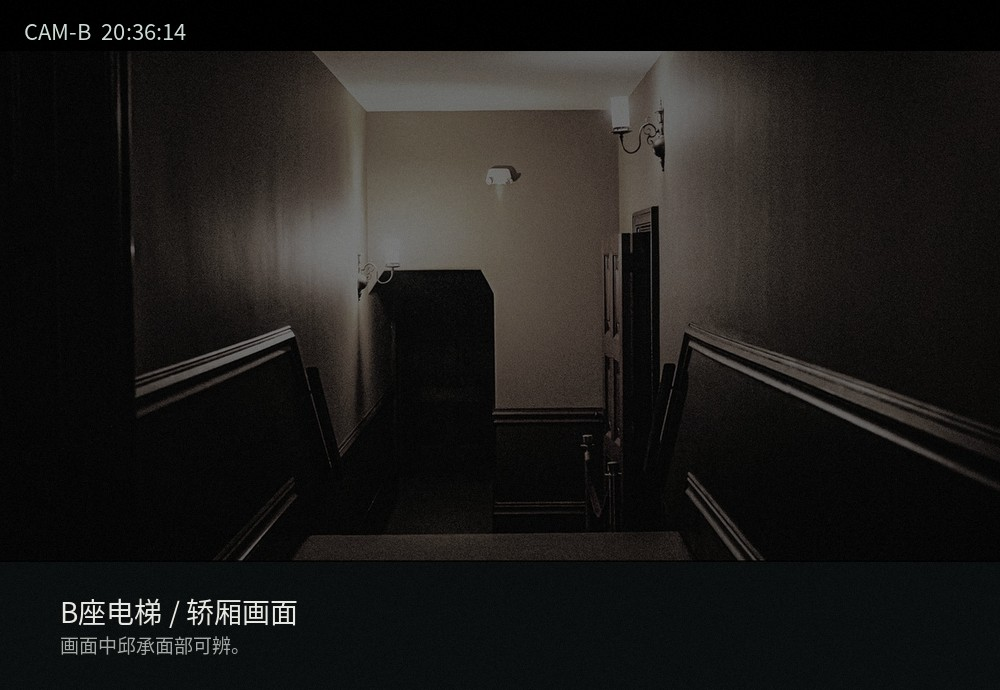
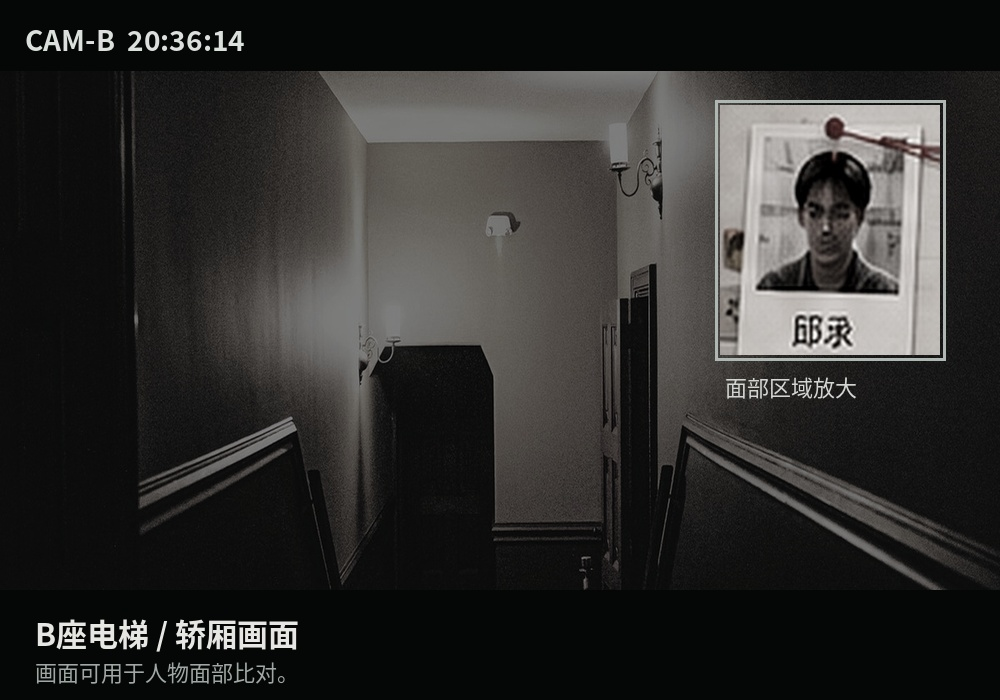
5

diff --git a/app.js b/app.js
@@ -5,8 +5,8 @@ const SAVE='second_confession_film_v4',META='second_confession_film_meta_v4';
 const $=s=>document.querySelector(s),$$=s=>[...document.querySelectorAll(s)];
 const esc=s=>String(s??'').replace(/[&<>"']/g,m=>({'&':'&amp;','<':'&lt;','>':'&gt;','"':'&quot;',"'":'&#39;'}[m]));
 const defaults=()=>({
-  stage:0,location:'hall',asked:[],scene:[],viewed:[],facts:[],hintLevel:{},sound:true,
-  transferSubmitted:false,drawerResolved:false,tags:{},lastSeenSolved:false,arrivalSeen:false,arrivalConfronted:false,
+  stage:0,location:'hall',asked:[],scene:[],viewed:[],facts:[],hintLevel:{},sound:true,expert:false,recordOrder:[],
+  transferSubmitted:false,drawerMismatch:false,drawerReasked:false,drawerResolved:false,tags:{},lastSeenSolved:false,arrivalSeen:false,arrivalConfronted:false,
   bookstoreSeen:[],sequenceSolved:false,propertySolved:false,voiceSeen:false,forensicSeen:[],forensicSolved:false,
   secondAsked:false,final:{initial:{person:null,evidence:[]},rescue:{person:null,evidence:[]},cover:{person:null,evidence:[]},confess:{person:null,evidence:[]},model:null},
   ending:false,filmSeen:[]
@@ -58,8 +58,9 @@ function showFilm(key,done){
 function renderShot(){
   clearTimeout(film.timer);
   const s=film.shots[film.i];
-  const img=$('#filmImg');img.style.animation='none';void img.offsetWidth;img.style.animation='';
-  img.src=s.img.startsWith('ev_')?'assets/images/'+s.img:'assets/images/'+s.img;
+  const theatre=$('#theatre');theatre.classList.remove('shot-enter');void theatre.offsetWidth;theatre.classList.add('shot-enter');
+  const img=$('#filmImg');img.className='motion-'+(s.motion||(['push','still','pan-left','pan-right'][film.i%4]));img.style.animation='none';void img.offsetWidth;img.style.animation='';
+  img.src='assets/images/'+s.img;
   $('#filmHud').textContent=s.hud||'';
   $('#filmCaption').textContent=s.caption||'';
   $('#filmSpeaker').textContent=s.speaker||'';
@@ -67,7 +68,7 @@ function renderShot(){
   const st=$('#filmStamp');st.textContent=s.stamp||'';st.classList.toggle('hidden',!s.stamp);
   if(s.ambient)ambient(s.ambient);
   if(s.sfx)playFx(s.sfx);
-  film.timer=setTimeout(()=>advanceFilm(),Math.max(1800,(s.hold||900)+900));
+  film.timer=setTimeout(()=>advanceFilm(),Math.max(2400,(s.hold||900)+1200));
 }
 function advanceFilm(){
   clearTimeout(film.timer);
@@ -89,8 +90,9 @@ function enter(newGame=false){
 $$('[data-action="new"]').forEach(b=>b.onclick=()=>enter(true));
 $('#continueBtn').disabled=!localStorage.getItem(SAVE);
 $('#continueBtn').onclick=()=>enter(false);
-if(meta.completed)$('#truthReplayBoot').classList.remove('hidden');
+if(meta.completed){$('#truthReplayBoot').classList.remove('hidden');$('#independentBoot')?.classList.remove('hidden')}
 $('#truthReplayBoot').onclick=()=>{state=defaults();$('#boot').classList.add('hidden');$('#app').classList.remove('hidden');showFilm('replayTruth',()=>{$('#app').classList.add('hidden');$('#boot').classList.remove('hidden')})};
+$('#independentBoot')?.addEventListener('click',()=>{reset();state.expert=true;state.recordOrder=[...recordIds].sort(()=>Math.random()-.5);save();$('#boot').classList.add('hidden');$('#app').classList.remove('hidden');showFilm('intake',()=>{state.location='hall';save();render()})});
 
 /* ===== diegetic hall ===== */
 const locationInfo={
@@ -109,7 +111,7 @@ function proceduralItems(){
     ['检查4-702书桌与倒地位置',state.scene.includes('desk')&&state.scene.includes('floor')],
     ['核对E01与E02原始材料',state.viewed.includes('confession')&&state.viewed.includes('brass')]
   ];
-  if(state.stage===1)return [['补核物证采集位置',state.drawerResolved]];
+  if(state.stage===1)return [['补核物证采集位置',state.drawerMismatch],['回讯问室复听并再次确认',state.drawerReasked],['决定是否暂缓移送',state.drawerResolved]];
   if(state.stage===2)return [['复核20:36—21:52记录来源',state.lastSeenSolved]];
   if(state.stage===3)return [['核对陈默到场时间并补充讯问',state.arrivalConfronted]];
   if(state.stage===4)return [['核对迟夏书店时间记录',state.sequenceSolved]];
@@ -132,12 +134,13 @@ function renderHall(){
     <img class="scene-bg" src="assets/images/film_corridor_wide.jpg" alt="">
     <div class="scene-shade"></div>
     <div class="scene-copy">
-      <div class="kicker">${state.stage<2?'TRANSFER CHECK':'SUPPLEMENTAL REVIEW'} / CASE 17</div>
+      <div class="kicker">${state.expert?'INDEPENDENT REVIEW':(state.stage<2?'TRANSFER CHECK':'SUPPLEMENTAL REVIEW')} / CASE 17</div>
       <h1>${state.stage<2?'案件移送核验':'第17号案件 · 补充复核'}</h1>
       <p>${state.stage<2?'先完成程序性核验。系统不会替你判断口供是否可信。':'从原始材料重新建立案件，不沿用原案对记录的解释。'}</p>
       <div class="location-grid">${cards}</div>
-      ${items.length?`<div class="procedure-slip"><b>程序清单</b><ul>${items.map(x=>`<li class="${x[1]?'done':''}">${x[0]}</li>`).join('')}</ul>
+      ${items.length&&!state.expert?`<div class="procedure-slip"><b>程序清单</b><ul>${items.map(x=>`<li class="${x[1]?'done':''}">${x[0]}</li>`).join('')}</ul>
       ${state.stage===0&&items.every(x=>x[1])&&!state.transferSubmitted?'<button id="submitTransfer" class="primary">提交移送核验</button>':''}</div>`:''}
+      ${state.expert&&state.stage===0&&items.every(x=>x[1])&&!state.transferSubmitted?'<div class="expert-submit"><button id="submitTransfer" class="primary">提交移送核验</button></div>':''}
     </div>
   </section>`;
   $$('[data-loc]').forEach(b=>b.onclick=()=>go(b.dataset.loc));
@@ -162,6 +165,7 @@ function availableQuestions(){
     {id:'weapon',q:'凶器是什么？',a:'桌边那只黄铜书挡。我拿起来砸了他。',beh:'说到“黄铜书挡”时视线没有移开。'}
   ];
   if(state.stage>=1)base.push({id:'drawer',q:'后来怎么处理凶器？',a:'擦了一下，放回书桌第二层抽屉。',beh:'“第二层”回答很快。'});
+  if(state.drawerMismatch)base.push({id:'drawer_recheck',q:'书挡到底放在哪一层？',a:'第二层。左边第二层，我记得很清楚。',beh:'重复询问后仍保持同一回答。'});
   if(state.stage>=3)base.push({id:'arrival',q:'你几点到、几点离开？',a:'21点45分左右到，21点58分左右离开。',beh:'时间表达完整，没有反复修正。'});
   if(state.stage>=7)base.push({id:'second',q:'20:50林夏已经知道邱承倒下。你那时在哪里？',a:'……我到的时候，他已经倒在那里。',beh:'这句话与第一次供述出现直接冲突。'});
   return base;
@@ -170,13 +174,15 @@ function renderInterrogation(){
   ambient('interrogation');
   const qs=availableQuestions();
   const cur=qs.find(q=>q.id===(state.currentQ||''))||qs[0];state.currentQ=cur.id;
+  const qImage=['drawer_recheck','arrival','second'].includes(cur.id)?'film_interrogation_left.jpg':'film_interrogation_wide.jpg';
   $('#view').innerHTML=`<section class="interrogation-room">
-    <img class="scene-bg" src="assets/images/film_interrogation_wide.jpg" alt="讯问室环境">
+    <img class="scene-bg" src="assets/images/${qImage}" alt="讯问室环境">
     <div class="scene-shade"></div><div class="cam-time"><span class="rec">● REC</span>ROOM 03 / 21:14:${String(8+state.asked.length*7).padStart(2,'0')}</div>
     <div class="interrogation-console">
       <h2>第一次讯问录像</h2><div class="mono">原案材料 / 未附行为结论</div>
       <div class="question-list">${qs.map(q=>`<button class="${state.asked.includes(q.id)?'asked':''}" data-q="${q.id}">${q.q}</button>`).join('')}</div>
       <div class="transcript"><div class="q">韩川：${esc(cur.q)}</div><div class="a">陈默：${esc(cur.a)}</div><div class="behaviour">观察记录：${esc(cur.beh)}</div></div>
+      ${state.stage===1&&state.drawerMismatch&&state.drawerReasked&&!state.drawerResolved?'<div class="confront-row"><button id="pauseTransfer" class="primary">将两份原始记录并列，申请暂缓移送</button></div>':''}
       ${state.stage>=3&&state.arrivalSeen&&state.asked.includes('arrival')&&!state.arrivalConfronted?'<div class="confront-row"><button id="arrivalConfront" class="primary">把E15到场记录放到桌上</button></div>':''}
       ${state.stage>=7&&state.asked.includes('second')&&!state.secondAsked?'<div class="confront-row"><button id="secondConfront" class="primary">把时间材料放到桌上</button></div>':''}
     </div>
@@ -184,8 +190,13 @@ function renderInterrogation(){
   $$('[data-q]').forEach(b=>b.onclick=()=>{
     state.currentQ=b.dataset.q;
     if(!state.asked.includes(b.dataset.q))state.asked.push(b.dataset.q);
-    if(['why','weapon','drawer'].includes(b.dataset.q))markViewed('confession');
+    if(['why','weapon','drawer','drawer_recheck'].includes(b.dataset.q))markViewed('confession');
+    if(b.dataset.q==='drawer_recheck')state.drawerReasked=true;
     save();playFx('rec');renderInterrogation();
+  });
+  $('#pauseTransfer')?.addEventListener('click',()=>{
+    state.drawerResolved=true;setStage(2);addFact('第一次供述与现场采集位置对同一物证的层数记录不一致。');save();
+    showFilm('drawerBreak');
   });
   $('#arrivalConfront')?.addEventListener('click',()=>{
     state.arrivalConfronted=true;setStage(4);addFact('陈默到场记录显示其21:29进入B座。');save();
@@ -199,20 +210,19 @@ function renderInterrogation(){
 
 /* ===== scene ===== */
 const hotspots=[
-  {id:'desk',label:'书桌',x:47,y:48,w:23,h:20,ev:'brass',text:'书桌右侧区域提取黄铜书挡。'},
-  {id:'floor',label:'倒地位置',x:28,y:55,w:26,h:25,text:'倒地位置与第一次供述描述基本对应。'},
-  {id:'phone',label:'桌边设备',x:39,y:57,w:14,h:13,ev:'phone',stage:2,text:'邱承手机在桌边提取。'},
-  {id:'door',label:'入户门',x:76,y:28,w:18,h:40,ev:'access',stage:2,text:'入户门未见强行破坏痕迹。'},
-  {id:'drawer',label:'抽屉',x:57,y:52,w:18,h:18,ev:'drawer',stage:1,text:'物证采集位置补录。'}
-];
+  {id:'desk',label:'书桌与抽屉柜',x:56,y:19,w:39,h:48,ev:'brass',text:'书桌与抽屉柜在原现场照片中清晰可见。'},
+  {id:'floor',label:'倒地位置',x:10,y:42,w:55,h:53,text:'倒地位置位于书桌前方地面，现场编号牌与第一次供述描述可以核对。'},
+  {id:'phone',label:'桌边手机',x:61,y:13,w:18,h:16,ev:'phone',stage:2,text:'邱承手机在书桌区域提取。'},
+  {id:'drawer',label:'左侧抽屉柜',x:70,y:24,w:23,h:46,ev:'drawer',stage:1,text:'物证采集位置补录。'}
+]
 function renderScene(){
   ambient('rain');
   $('#view').innerHTML=`<section class="scene-screen">
     <img class="scene-bg" src="assets/images/film_apartment_wide.jpg" alt="4-702现场">
     <div class="scene-shade"></div>
     ${hotspots.filter(h=>(h.stage||0)<=state.stage).map(h=>`<button class="hotspot" data-hot="${h.id}" data-label="${h.label}" style="left:${h.x}%;top:${h.y}%;width:${h.w}%;height:${h.h}%"></button>`).join('')}
-    <div class="scene-tip">移动鼠标检查现场 · 无关键点高亮</div>
-    <div class="field-panel"><h3>4-702 · 原现场重建</h3><p>${state.stage<1?'按移送程序核对供述中出现的物品与位置。':'打开原始定位材料时，只记录你真正看到的内容。'}</p><small class="mono">CHECKED ${state.scene.length} / ${hotspots.filter(h=>(h.stage||0)<=state.stage).length}</small></div>
+    <div class="scene-tip">移动鼠标检查现场 · 编号牌是原勘验标记，热点不会发光</div>
+    <div class="field-panel"><h3>4-702 · 原现场勘验照片</h3><p>${state.stage<1?'按移送程序核对供述中出现的物品与现场编号。':'打开原始定位材料时，只记录你真正看到的内容。'}</p><small class="mono">CHECKED ${state.scene.length} / ${hotspots.filter(h=>(h.stage||0)<=state.stage).length}</small></div>
   </section>`;
   $$('[data-hot]').forEach(b=>b.onclick=()=>inspectHotspot(b.dataset.hot));
 }
@@ -234,8 +244,8 @@ function drawerCompare(){
     <div class="compare-actions"><button data-drawer="same">一致</button><button data-drawer="diff">不一致</button><button data-drawer="unknown">无法判断</button></div>`);
   $$('[data-drawer]').forEach(b=>b.onclick=()=>{
     if(b.dataset.drawer==='diff'){
-      closeModal(false);state.drawerResolved=true;setStage(2);addFact('第一次供述写“第二层”，现场采集记录写“第一层”。');save();
-      showFilm('drawerBreak');
+      closeModal(false);state.drawerMismatch=true;addFact('两份原始材料对同一物证的层数记录不同。');save();
+      toast('差异已登记。回讯问室复听陈默关于抽屉位置的原话。');render();
     }else toast('再读一次两份原始材料。');
   });
 }
@@ -263,12 +273,13 @@ function openEvidence(id){
 
 /* ===== video room / record classification ===== */
 const recordIds=['cctv','payment','access','water','parcel','taxi'];
-const tagLabels={person:'直接确认本人',carrier:'确认凭证/账户/设备',environment:'确认环境行为',unknown:'无法确认'};
+function currentRecordIds(){return state.expert&&state.recordOrder?.length?state.recordOrder:recordIds}
+const tagLabels={person:'画面确认到人',carrier:'只记录卡/账户/设备',environment:'只记录环境变化',unknown:'目前无法判断'};
 function renderVideo(){
   ambient('records');
-  const allCorrect=recordIds.every(id=>state.tags[id]===D.recordTags[id]);
+  const ids=currentRecordIds();const allCorrect=recordIds.every(id=>state.tags[id]===D.recordTags[id]);
   $('#view').innerHTML=`<section class="video-room"><div class="room-head"><div><h1>视频与系统记录复核</h1><p>20:36—21:52 / SOURCE CLASSIFICATION</p></div><span class="mono">先标注“记录直接确认了什么”</span></div>
-  <div class="monitor-wall">${recordIds.map(id=>{const e=ev(id);return `<div class="monitor"><div class="monitor-id">${e.no}</div><img src="assets/images/${e.img}" alt="${esc(e.name)}"><p>${esc(e.raw)}</p>
+  <div class="monitor-wall">${ids.map(id=>{const e=ev(id);return `<div class="monitor"><div class="monitor-id">${e.no}</div><img src="assets/images/${e.img}" alt="${esc(e.name)}"><p>${esc(e.raw)}</p>
     <button data-open-record="${id}">打开原件</button>
     <div class="tag-row">${Object.entries(tagLabels).map(([k,l])=>`<button data-tag="${id}:${k}" class="${state.tags[id]===k?'active':''}" ${state.viewed.includes(id)?'':'disabled'}>${l}</button>`).join('')}</div></div>`}).join('')}</div>
   ${allCorrect&&!state.lastSeenSolved?`<div class="video-question"><h3>在这些材料中，最后一条能直接确认邱承本人出现的是：</h3>
@@ -332,7 +343,7 @@ function renderProperty(){
 /* ===== forensic ===== */
 function renderForensic(){
   ambient('records');
-  $('#view').innerHTML=`<section class="diegetic-screen"><img class="scene-bg" src="assets/images/film_records_wide.jpg" alt="法医复核室"><div class="scene-shade"></div>
+  $('#view').innerHTML=`<section class="diegetic-screen"><img class="scene-bg" src="assets/images/film_forensic_v5.jpg" alt="法医复核室"><div class="scene-shade"></div>
   <div class="prop-stack"><div class="mono">FORENSIC REVIEW / CASE 17</div><h1>死亡过程复核</h1>
   <div class="medical-file"><button data-forensic="autopsy">查看E17法医底稿</button>${state.forensicSeen.includes('autopsy')?'<img src="assets/images/ev_autopsy.jpg">':''}</div>
   <div class="medical-file"><button data-forensic="call">查看E12急救缓存</button>${state.forensicSeen.includes('call')?'<img src="assets/images/ev_call.jpg">':''}</div>
@@ -354,10 +365,10 @@ function renderForensic(){
 
 /* ===== final review ===== */
 const responsibilityDefs={
-  initial:{title:'最初伤害',people:[['lin','林夏'],['chen','陈默'],['zhao','赵序']],expectedPerson:'lin',evidence:['cctv','brass','message'],expectedEvidence:['cctv','brass']},
-  rescue:{title:'救助中断',people:[['linzhao','林夏 / 赵序'],['chen','陈默'],['han','韩川']],expectedPerson:'linzhao',evidence:['message','call','autopsy','arrival'],expectedEvidence:['call','autopsy']},
-  cover:{title:'事后时间线设计',people:[['zhao','赵序'],['chen','陈默'],['han','韩川']],expectedPerson:'zhao',evidence:['zhaolog','access','water','payment'],expectedEvidence:['zhaolog','access']},
-  confess:{title:'虚假自首',people:[['chen','陈默'],['lin','林夏'],['zhao','赵序']],expectedPerson:'chen',evidence:['confession','arrival','drawer','message'],expectedEvidence:['confession','arrival']}
+  initial:{title:'最初伤害',people:[['lin','林夏'],['chen','陈默'],['zhao','赵序']],expectedPerson:'lin',evidence:['cctv','brass','message'],validEvidence:[['cctv','brass'],['message','brass']]},
+  rescue:{title:'救助中断',people:[['linzhao','林夏 / 赵序'],['chen','陈默'],['han','韩川']],expectedPerson:'linzhao',evidence:['message','call','autopsy','arrival'],validEvidence:[['call','autopsy'],['message','autopsy']]},
+  cover:{title:'事后时间线设计',people:[['zhao','赵序'],['chen','陈默'],['han','韩川']],expectedPerson:'zhao',evidence:['zhaolog','access','water','payment','parcel','taxi'],validEvidence:[['zhaolog','access'],['zhaolog','payment'],['zhaolog','water'],['zhaolog','parcel'],['zhaolog','taxi']]},
+  confess:{title:'虚假自首',people:[['chen','陈默'],['lin','林夏'],['zhao','赵序']],expectedPerson:'chen',evidence:['confession','arrival','drawer','message'],validEvidence:[['confession','arrival'],['confession','drawer']]}
 };
 function renderReview(){
   ambient('records');
@@ -366,7 +377,7 @@ function renderReview(){
     return `<div class="responsibility-card"><h3>${d.title}</h3><div class="mono">主要行为人</div><div class="person-stamps">${d.people.map(([v,l])=>`<button data-person-pick="${id}:${v}" class="${s.person===v?'active':''}">${l}</button>`).join('')}</div>
       <div class="mono" style="margin-top:14px">挂接两份关键材料</div><div class="evidence-picks">${d.evidence.map(eid=>`<button data-ev-pick="${id}:${eid}" class="${s.evidence.includes(eid)?'active':''}">${ev(eid).no} ${ev(eid).name}</button>`).join('')}</div></div>`;
   }).join('');
-  $('#view').innerHTML=`<section class="review-room"><div class="review-table"><div class="mono">CASE REVIEW MEETING / FINAL</div><h1>案件复核会议</h1><p>不要寻找一个能覆盖全部过程的人。把四段行为分别固定。</p>
+  $('#view').innerHTML=`<section class="review-room"><div class="review-hero"><img src="assets/images/film_review_meeting.jpg" alt="案件复核会议"><div><div class="mono">CASE REVIEW MEETING / FINAL</div><h1>案件复核会议</h1><p>把已经确认的事实重新放回同一张桌面。终局只接受能够解释全部记录的责任链。</p></div></div><div class="review-table">
   <div class="responsibility-grid">${cards}</div>
   <div class="review-submit"><h3>案件模型</h3><div class="model-options">
     <button data-model="single" class="${state.final.model==='single'?'active':''}">陈默单独故意杀人</button>
@@ -382,7 +393,7 @@ function submitFinal(){
   let ok=true;
   for(const [id,d] of Object.entries(responsibilityDefs)){
     const s=state.final[id];if(s.person!==d.expectedPerson)ok=false;
-    if(!d.expectedEvidence.every(x=>s.evidence.includes(x)))ok=false;
+    if(!d.validEvidence.some(set=>set.every(x=>s.evidence.includes(x))))ok=false;
   }
   if(state.final.model!=='layered')ok=false;
   if(!ok){toast('复核意见仍有一段行为无法被当前材料解释。');return}
@@ -401,7 +412,7 @@ function renderEnding(){
     <div class="outcome"><b>赵序</b><small>事后掩饰行为复核</small><p>没有篡改数据库，但其利用多系统记录形成错误身份时间线的行为被固定。</p></div>
     <div class="outcome"><b>韩川</b><small>原案质量复盘</small><p>真实记录被错误地写成了“本人持续活动”。</p></div>
   </div>
-  <div class="ending-actions"><button id="truthReplay" class="primary">重看第一份口供 · 真相标注</button><button id="restart">重新开始案件</button></div></div></section>`;
+  <p class="replay-note">${state.expert?'独立复核完成：本轮未显示程序清单与提示，电子记录顺序也经过打乱。':'通关后可从首页进入“独立复核二周目”，在无程序清单、无提示且记录顺序打乱的条件下重新证明案件。'}</p><div class="ending-actions"><button id="truthReplay" class="primary">重看第一份口供 · 真相标注</button><button id="restart">重新开始案件</button></div></div></section>`;
   $('#truthReplay').onclick=()=>showFilm('replayTruth');
   $('#restart').onclick=()=>{reset();location.reload()};
 }
@@ -417,7 +428,7 @@ function renderFolder(tab){
   }else if(tab==='facts'){
     body.innerHTML=state.facts.map(x=>`<div class="folder-fact">${esc(x)}</div>`).join('')||'<p>这里只记录你已经亲手确认的事实。</p>';
   }else{
-    body.innerHTML=`<div class="people-file">${Object.values(D.people).map(p=>`<div class="person-file"><b>${p.name}</b><small>${p.role}</small><p>${p.public}</p>${state.stage>=8?`<p>${p.later}</p>`:''}</div>`).join('')}</div>`;
+    body.innerHTML=`<div class="people-file">${Object.values(D.people).map(p=>`<div class="person-file"><img class="person-portrait" src="assets/images/${p.portrait}" alt="${p.name}"><div class="person-copy"><b>${p.name}</b><small>${p.role}</small><p>${p.public}</p><p class="relation">${p.relation}</p>${p.mid&&state.stage>=p.midStage?`<p class="mid-note">${p.mid}</p>`:''}${state.stage>=8?`<p class="later-note">${p.later}</p>`:''}</div></div>`).join('')}</div>`;
   }
 }
 $$('[data-folder-tab]').forEach(b=>b.onclick=()=>renderFolder(b.dataset.folderTab));
@@ -445,8 +456,9 @@ function tools(){
 function render(){
   if(state.ending){renderEnding();return}
   $('#hudLocation').textContent=state.location==='hall'?(state.stage<2?'案卷室':'补充复核走廊'):(locationInfo[state.location]?.[0]||'第17号案件');
-  $('#hudStatus').textContent=state.stage<2?'TRANSFER CHECK':'SUPPLEMENTAL REVIEW';
+  $('#hudStatus').textContent=state.expert?'INDEPENDENT REVIEW':(state.stage<2?'TRANSFER CHECK':'SUPPLEMENTAL REVIEW');
   $('.back-location').style.visibility=state.location==='hall'?'hidden':'visible';
+  document.querySelector('[data-action="hint"]').style.display=state.expert?'none':'';
   if(state.location==='hall')renderHall();
   else if(state.location==='interrogation')renderInterrogation();
   else if(state.location==='scene')renderScene();
@@ -473,6 +485,13 @@ document.addEventListener('click',e=>{
   else if(act==='tools')tools();
   else if(act==='close-modal')closeModal();
 });
-document.addEventListener('keydown',e=>{if(e.key==='Escape'){closeModal();$('#folder').classList.add('hidden');$('#hintPanel').classList.add('hidden')}});
+document.addEventListener('keydown',e=>{
+  if(!$('#theatre').classList.contains('hidden')&&(e.key===' '||e.key==='Enter')){e.preventDefault();advanceFilm();return}
+  if(e.key==='Escape'){closeModal();$('#folder').classList.add('hidden');$('#hintPanel').classList.add('hidden');return}
+  if($('#app').classList.contains('hidden'))return;
+  if(e.key.toLowerCase()==='f'){openFolder();return}
+  if(e.key.toLowerCase()==='h'&&!state.expert){openHint();return}
+  if(e.key.toLowerCase()==='m'){toggleSound();return}
+});
 
 })();

diff --git a/data.js b/data.js
@@ -6,14 +6,14 @@ window.CASE17 = {
     date:"2026-05-18"
   },
   people:{
-    chen:{name:"陈默",role:"主动投案者 / 林夏弟弟",public:"28岁，网约车司机。案发后三天主动到案。",relation:"林夏的弟弟。少年时期由姐姐照顾长大。",later:"他并没有亲历最初冲突，但后来确实进入4-702，并主动承担了整起案件。"},
-    lin:{name:"林夏",role:"迟夏书店经营者",public:"34岁。与死者邱承存在担保债务纠纷。",relation:"陈默姐姐，与赵序相识多年。",later:"她在最初冲突中造成伤害；之后曾尝试拨打120，却没有完成求助。"},
-    zhao:{name:"赵序",role:"物业设备运维工程师",public:"40岁。负责西河公寓门禁、水表等设备维护。",relation:"与林家相识十余年。",later:"他没有篡改系统数据，但熟悉各套系统记录的边界，并参与了事后掩饰设计。"},
-    qiu:{name:"邱承",role:"死者 / 民间债务中介",public:"38岁。长期处理私人债务，曾被投诉暴力催收。",relation:"与林夏存在债务纠纷。",later:"其个人品行与死亡过程需要分别评价。"},
-    han:{name:"韩川",role:"原案主办侦查员",public:"45岁。陈默投案后负责原案证据闭环。",relation:"与涉案人员无私人关系。",later:"没有证据证明他伪造材料；原案错误来自对真实记录的过度解释。"},
-    sun:{name:"孙岚",role:"行为分析顾问",public:"36岁。本次补充复核顾问。",relation:"未参与原案侦查。",later:"她坚持只记录可观察行为，不把停顿、平静等表现直接写成谎言。"},
-    feng:{name:"冯越",role:"西河公寓夜班保安",public:"52岁。案发当晚值班。",relation:"与住户无私人关系。",later:"最初笔录因担心离岗抽烟被处罚而压缩了一段目击。"},
-    zhong:{name:"钟嘉",role:"快递员",public:"25岁。案发夜在快递柜附近补柜。",relation:"与核心人物无私人关系。",later:"他只听到柜门开启，从未确认开柜人的脸。"}
+    chen:{name:"陈默",role:"主动投案者 / 林夏弟弟",portrait:"portrait_chen.jpg",public:"28岁，网约车司机。案发后三天主动到案。",relation:"林夏的弟弟。少年时期由姐姐照顾长大。",midStage:3,mid:"补充影像确认：其车辆21:27进入车库，21:29才进入B座。",later:"他并没有亲历最初冲突，但后来确实进入4-702，并主动承担了整起案件。"},
+    lin:{name:"林夏",role:"迟夏书店经营者",portrait:"portrait_lin.jpg",public:"34岁。与死者邱承存在担保债务纠纷。",relation:"陈默姐姐，与赵序相识多年。",midStage:4,mid:"20:50消息缓存显示，她在陈默到场前已经知道邱承倒地且仍有呼吸。",later:"她在最初冲突中造成伤害；之后曾尝试拨打120，却没有完成求助。"},
+    zhao:{name:"赵序",role:"物业设备运维工程师",portrait:"portrait_zhao.jpg",public:"40岁。负责西河公寓门禁、水表等设备维护。",relation:"与林家相识十余年。",midStage:5,mid:"物业审计日志记录其21:06—21:10连续查询门禁与住户卡信息。",later:"他没有篡改系统数据，但熟悉各套系统记录的边界，并参与了事后掩饰设计。"},
+    qiu:{name:"邱承",role:"死者 / 民间债务中介",portrait:"portrait_qiu.jpg",public:"38岁。长期处理私人债务，曾被投诉暴力催收。",relation:"与林夏存在债务纠纷。",midStage:6,mid:"法医补充材料将“最初伤害”与“伤后救助窗口”拆成了两个时间阶段。",later:"其个人品行与死亡过程需要分别评价。"},
+    han:{name:"韩川",role:"原案主办侦查员",portrait:"portrait_han.jpg",public:"45岁。陈默投案后负责原案证据闭环。",relation:"与涉案人员无私人关系。",midStage:2,mid:"补充复核开始后，他同意把原案中的电子记录重新按来源拆开，而不是沿用旧结论。",later:"没有证据证明他伪造材料；原案错误来自对真实记录的过度解释。"},
+    sun:{name:"孙岚",role:"行为分析顾问",portrait:"portrait_sun.jpg",public:"36岁。本次补充复核顾问。",relation:"未参与原案侦查。",midStage:1,mid:"她要求讯问观察只写可见动作与停顿，不把“冷静”“沉默”直接判成谎言。",later:"她坚持只记录可观察行为，不把停顿、平静等表现直接写成谎言。"},
+    feng:{name:"冯越",role:"西河公寓夜班保安",portrait:"scene_corridor.jpg",public:"52岁。案发当晚值班。",relation:"与住户无私人关系。",midStage:3,mid:"补录笔录承认自己20:30前后曾离岗抽烟，因此原笔录中的时间描述并不完整。",later:"最初笔录因担心离岗抽烟被处罚而压缩了一段目击。"},
+    zhong:{name:"钟嘉",role:"快递员",portrait:"scene_bookstore.jpg",public:"25岁。案发夜在快递柜附近补柜。",relation:"与核心人物无私人关系。",midStage:2,mid:"补充说明：21:38只听见柜门开启声，没有看清开柜人的脸。",later:"他只听到柜门开启，从未确认开柜人的脸。"}
   },
   evidence:{
     confession:{no:"E01",name:"第一次讯问录像转写",img:"ev_confession.jpg",kind:"讯问",stage:0,raw:"陈默称21:45左右到4-702，使用桌边黄铜书挡击打邱承；称后来把书挡放回书桌第二层抽屉。"},
@@ -72,7 +72,7 @@ window.CASE17 = {
       {img:"ev_water.jpg",ambient:"records",caption:"21:31:17",hold:550},
       {img:"ev_parcel.jpg",ambient:"records",caption:"21:38:22",hold:550},
       {img:"ev_taxi.jpg",ambient:"records",caption:"21:52:04",hold:750},
-      {img:"film_records_detail.jpg",ambient:"records",speaker:"韩川",line:"把20:36以后的记录全部单独列出来。",hold:1200}
+      {img:"film_timeline_v5.jpg",ambient:"records",speaker:"韩川",line:"把20:36以后的记录按原始来源重新排一次。",hold:1200}
     ],
     arrivalBreak:[
       {img:"ev_chen_arrival.jpg",ambient:"records",caption:"21:29 / B座消防梯",hold:1100},
@@ -87,12 +87,13 @@ window.CASE17 = {
       {img:"film_bookstore_counter.jpg",ambient:"rain",caption:"4秒",hold:1200}
     ],
     propertyAudit:[
-      {img:"film_records_wide.jpg",ambient:"records",caption:"21:06 / 物业设备终端",hold:700},
+      {img:"film_records_detail.jpg",ambient:"records",caption:"21:06 / 西河公寓物业值班室",hold:700},
       {img:"ev_zhao_log.jpg",ambient:"records",sfx:"printer",caption:"审计记录",hold:1200},
-      {img:"film_records_detail.jpg",ambient:"records",speaker:"审计员",line:"没有写入。没有删除。没有改时间。",hold:1300}
+      {img:"film_records_detail.jpg",ambient:"records",speaker:"审计员",line:"没有写入。没有删除。没有改时间。",hold:1300},
+      {img:"portrait_zhao.jpg",ambient:"records",speaker:"赵序",line:"我查过门禁，也查过住户卡。系统里留下什么，我比谁都清楚。",hold:1500}
     ],
     rescueWindow:[
-      {img:"ev_autopsy.jpg",ambient:"records",sfx:"paper",caption:"法医底稿 · 补充复核",hold:1100},
+      {img:"film_forensic_v5.jpg",ambient:"records",sfx:"paper",caption:"法医底稿 · 补充复核",hold:1100},
       {img:"ev_bookshop_msg.jpg",ambient:"records",speaker:"林夏 · 20:50",line:"“他倒下了，还在喘。”",hold:1100},
       {img:"film_bookstore_counter.jpg",ambient:"rain",sfx:"phone",caption:"20:52 / 120 / 4秒",hold:900},
       {img:"film_corridor_door.jpg",ambient:"rain",caption:"21:29 / 陈默进入B座",hold:900}
@@ -105,12 +106,15 @@ window.CASE17 = {
       {img:"film_interrogation_left.jpg",ambient:"interrogation",speaker:"陈默",line:"有人告诉我，什么细节必须说对。",hold:1600}
     ],
     ending:[
-      {img:"film_records_detail.jpg",ambient:"records",sfx:"printer",caption:"第17号案件补充复核意见生成中",hold:1000},
-      {img:"film_records_wide.jpg",ambient:"records",sfx:"stamp",stamp:"撤回原移送意见",hold:1100},
+      {img:"film_review_meeting.jpg",ambient:"records",sfx:"printer",caption:"第17号案件补充复核会议",hold:1000},
+      {img:"film_review_meeting.jpg",ambient:"records",sfx:"stamp",stamp:"撤回原移送意见",hold:1100},
       {img:"film_interrogation_wide.jpg",ambient:"interrogation",sfx:"door",caption:"陈默 · 补充讯问",hold:800},
       {img:"film_interrogation_table.jpg",ambient:"interrogation",speaker:"韩川",line:"陈默。我们重新来。",hold:1000},
       {img:"film_interrogation_left.jpg",ambient:"interrogation",speaker:"陈默",line:"我姐不知道我要来自首。",hold:1500},
-      {img:"film_records_wide.jpg",ambient:"records",caption:"一个案件被重新拆成四段行为。",hold:1200}
+      {img:"portrait_lin.jpg",ambient:"records",speaker:"林夏",line:"我拨了120。四秒以后，我挂了。",hold:1500},
+      {img:"portrait_zhao.jpg",ambient:"records",speaker:"赵序",line:"记录没被改过。被利用的是你们看记录的方式。",hold:1600},
+      {img:"portrait_han.jpg",ambient:"records",speaker:"韩川",line:"那就把原结论撤回来。每一段行为，重新写。",hold:1500},
+      {img:"film_review_meeting.jpg",ambient:"records",caption:"原案的一句“人是我杀的”，被重新拆回四段可以分别证明的行为。",hold:1400}
     ],
     replayTruth:[
       {img:"film_interrogation_left.jpg",ambient:"interrogation",speaker:"陈默 · 第一次讯问",line:"“桌边那只黄铜书挡。”",caption:"真相标注：来自事后到场所见。",hold:1400},

diff --git a/style.css b/style.css
@@ -95,3 +95,48 @@ button{border:1px solid #59605d;background:#1b2021;color:#e6e5df;padding:9px 13p
   .file-sheet{padding:30px 23px 34px}.file-sheet dl{grid-template-columns:1fr}.file-sheet h1{font-size:45px}.hud{height:56px;grid-template-columns:86px 1fr auto}.back-location{font-size:0}.back-location:after{content:"← 走廊";font-size:11px}.hud-actions button:last-child{display:none}.hud-title b{font-size:12px}.hud-actions{gap:3px}.hud-actions button{padding:7px 6px}
   .view{padding-top:56px}.scene-screen,.interrogation-room,.diegetic-screen{min-height:calc(100vh - 56px)}.scene-copy{padding:42px 18px 65px}.location-grid{grid-template-columns:1fr}.interrogation-console{left:12px;right:12px;bottom:15px;width:auto}.question-list{max-height:110px;overflow:auto}.evidence-room,.video-room,.review-room{padding-left:12px;padding-right:12px}.evidence-grid{grid-template-columns:1fr 1fr;gap:7px}.ev-card img{height:105px}.ev-card{min-height:190px}.monitor-wall{grid-template-columns:1fr}.folder-overlay{padding:0}.folder-shell{height:100vh}.folder-ev-grid,.people-file{grid-template-columns:1fr 1fr}.document-view,.compare-grid{grid-template-columns:1fr}.sequence-row{grid-template-columns:1fr}.film-line{font-size:21px}.letterbox{height:7vh}.outcomes{grid-template-columns:1fr}
 }
+
+/* ===== V5：人物、复核会议、现场匹配增强 ===== */
+.person-file{display:grid;grid-template-columns:132px 1fr;gap:14px;align-items:start;min-height:175px}
+.person-portrait{width:132px;height:155px;object-fit:cover;filter:saturate(.72) contrast(1.05);border:1px solid #a69e90;background:#222}
+.person-copy small{display:block;color:#6d685f;margin:3px 0 8px}
+.person-copy .relation{color:#6a665e;border-top:1px dashed #b6aea0;padding-top:8px}
+.person-copy .mid-note{background:#d2cab9;padding:8px 10px;border-left:3px solid #7a6d59}
+.person-copy .later-note{background:#c8c0b0;padding:8px 10px;border-left:3px solid #7d403a}
+.review-hero{max-width:1180px;margin:0 auto 20px;display:grid;grid-template-columns:minmax(320px,.9fr) 1.1fr;gap:20px;align-items:end;border-bottom:1px solid #3f4542;padding-bottom:18px}
+.review-hero img{width:100%;height:235px;object-fit:cover;filter:saturate(.62) contrast(1.06);border:1px solid #4a504e}
+.review-hero h1{font:700 34px SimSun,serif;margin:8px 0}
+.review-hero p{color:#b8bbb6;line-height:1.8}
+.interrogation-room .scene-bg{filter:brightness(.44) saturate(.58) contrast(1.09)}
+.interrogation-console{box-shadow:0 18px 45px #0009}
+.interrogation-console:before{content:"";position:absolute;left:-1px;right:-1px;top:-1px;height:2px;background:linear-gradient(90deg,#7d403a,transparent 55%)}
+.scene-screen .scene-bg{transition:filter .35s ease,transform .9s ease}
+.scene-screen:has(.hotspot:hover) .scene-bg{filter:brightness(.58) saturate(.72) contrast(1.08)}
+.hotspot{cursor:crosshair}
+.hotspot:focus-visible{box-shadow:inset 0 0 0 2px #ddd6}
+.video-room .monitor{transition:transform .18s ease,border-color .18s ease}
+.video-room .monitor:hover{transform:translateY(-2px);border-color:#6e7772}
+.review-room{background:
+  linear-gradient(#0c0f10cc,#0c0f10e8),
+  url("assets/images/film_review_meeting.jpg") center/cover fixed}
+.theatre .film-line,.theatre .film-caption,.theatre .film-speaker{transition:opacity .25s ease,transform .25s ease}
+.theatre.shot-enter .film-line,.theatre.shot-enter .film-caption,.theatre.shot-enter .film-speaker{animation:subtitleIn .45s ease both}
+@keyframes subtitleIn{from{opacity:0;transform:translateY(8px)}to{opacity:1;transform:none}}
+@media(max-width:620px){
+ .person-file{grid-template-columns:92px 1fr;gap:10px}
+ .person-portrait{width:92px;height:120px}
+ .review-hero{grid-template-columns:1fr}
+ .review-hero img{height:180px}
+}
+
+button:focus-visible,select:focus-visible,input:focus-visible{outline:2px solid #c7b998;outline-offset:2px}
+
+.theatre img.motion-push{animation:filmPush 7.5s ease-out both}
+.theatre img.motion-still{animation:filmFade 1.1s ease-out both}
+.theatre img.motion-pan-left{animation:filmPanLeft 7.5s ease-out both}
+.theatre img.motion-pan-right{animation:filmPanRight 7.5s ease-out both}
+@keyframes filmFade{from{opacity:.2;transform:scale(1.025)}to{opacity:1;transform:scale(1.025)}}
+@keyframes filmPanLeft{from{transform:scale(1.07) translateX(1.5%)}to{transform:scale(1.1) translateX(-1.5%)}}
+@keyframes filmPanRight{from{transform:scale(1.07) translateX(-1.5%)}to{transform:scale(1.1) translateX(1.5%)}}
+.expert-submit{margin-top:22px}
+.replay-note{border-top:1px solid #aaa296;padding-top:14px;color:#625e56}

diff --git a/index.html b/index.html
@@ -30,6 +30,7 @@
           <button class="primary" data-action="new">签收卷宗</button>
           <button data-action="continue" id="continueBtn">继续上次进度</button>
           <button class="ghost hidden" data-action="truth-replay" id="truthReplayBoot">真相标注回看</button>
+          <button class="ghost hidden" id="independentBoot">独立复核二周目</button>
         </div>
         <small>建议耳机 · 关键声音均有文字替代 · 自动存档</small>
       </div>
